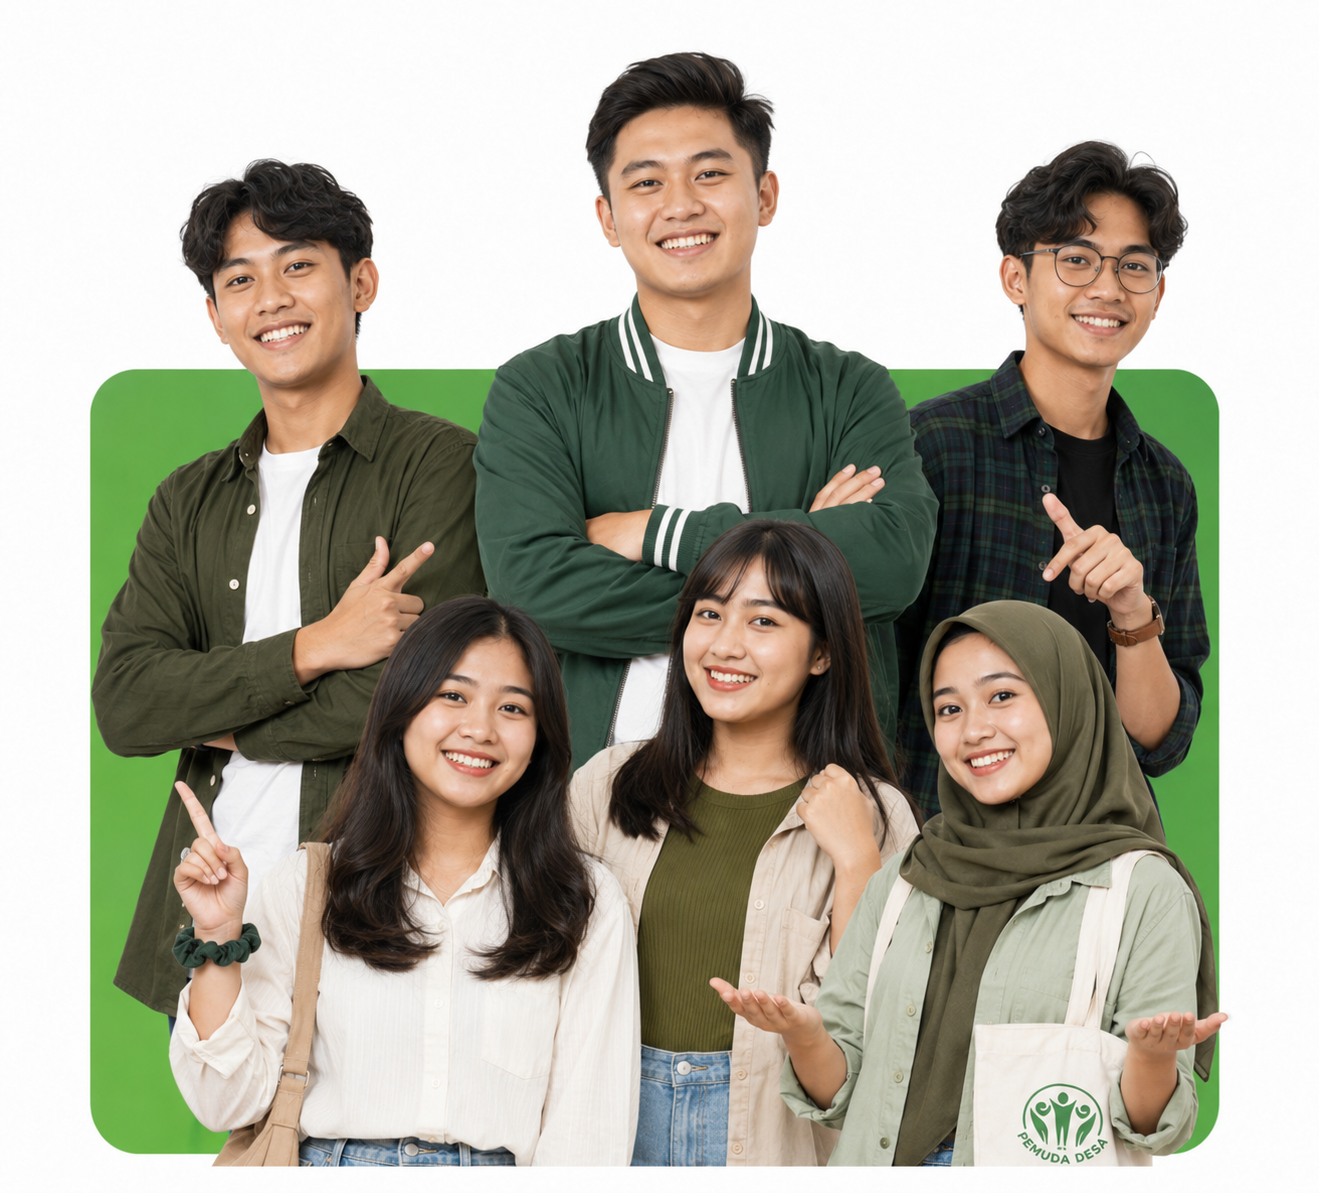
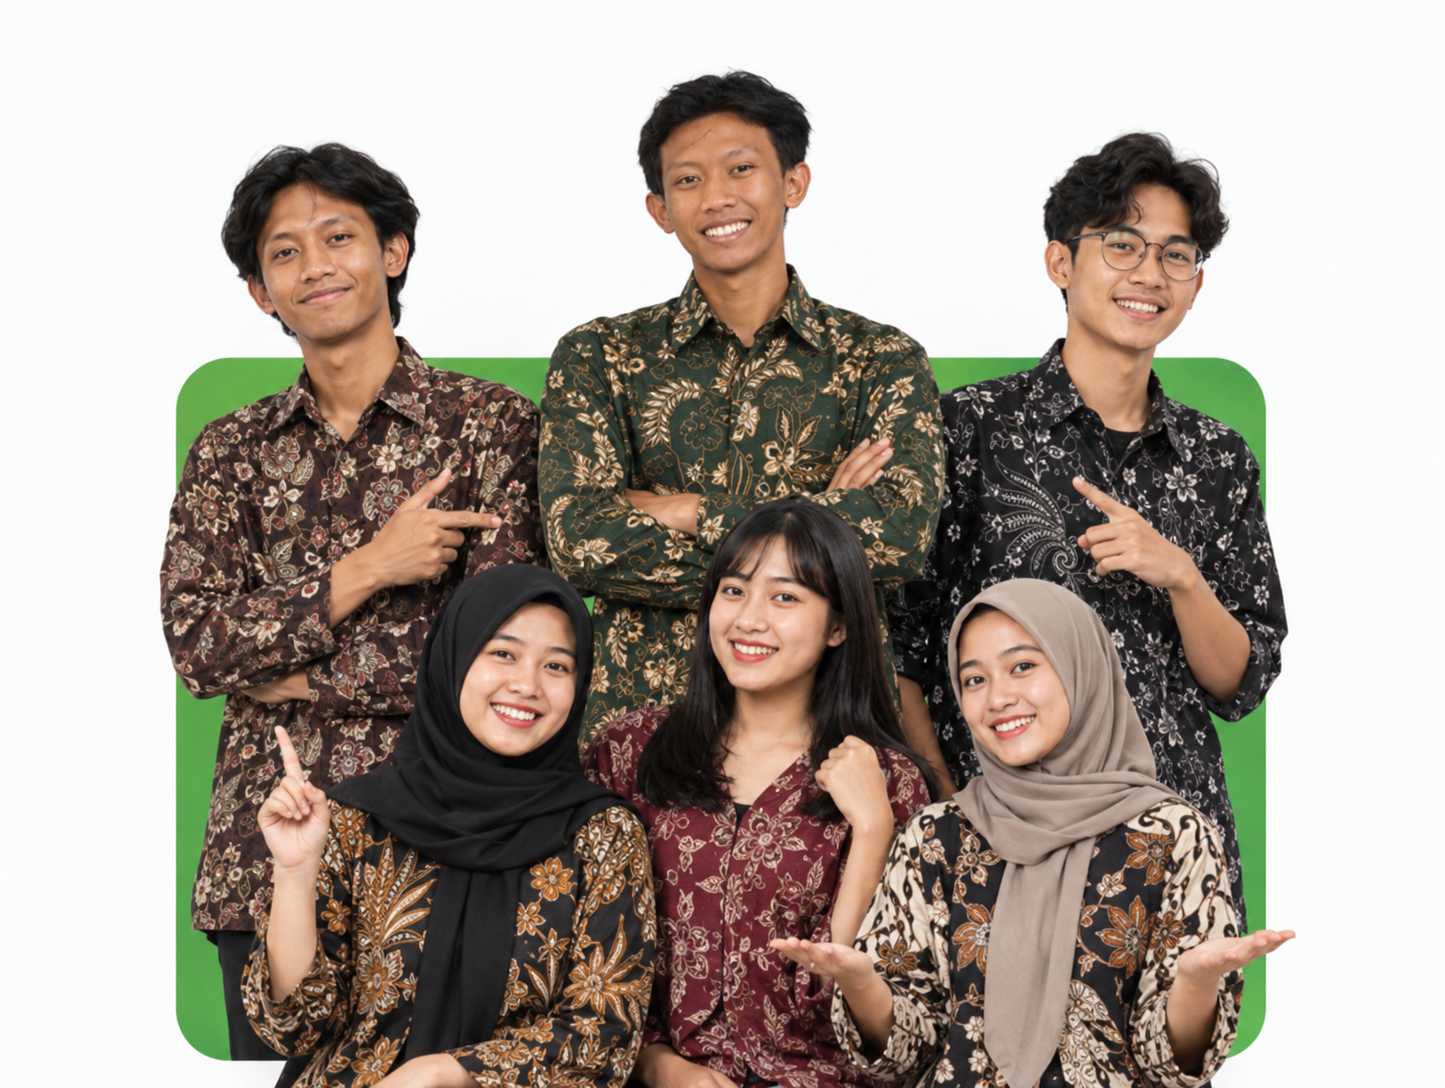
add admin padukuhan

diff --git a/frontend/src/shared/utils/compressImage.ts b/frontend/src/shared/utils/compressImage.ts
@@ -22,6 +22,17 @@ export const compressImage = (
       return;
     }
 
+    // PERBAIKAN PENTING: PNG sering dipakai JUSTRU karena
+    // transparansinya (foto tanpa background, logo, dll). JPEG SAMA
+    // SEKALI TIDAK MENDUKUNG TRANSPARANSI -- area transparan otomatis
+    // "dipadatkan" jadi HITAM PEKAT saat kanvas diekspor ke JPEG. Itu
+    // penyebab foto tanpa-background berubah jadi background hitam.
+    // Solusinya: PNG tetap diekspor sbg PNG (transparansi terjaga,
+    // lossless), HANYA file selain PNG yang dikompres ke JPEG.
+    const isPng = file.type === 'image/png';
+    const outputType = isPng ? 'image/png' : 'image/jpeg';
+    const outputExt = isPng ? '.png' : '.jpg';
+
     const reader = new FileReader();
     reader.onload = (event) => {
       const img = new Image();
@@ -50,18 +61,17 @@ export const compressImage = (
               resolve(file);
               return;
             }
-            // Nama file dipertahankan, ekstensi diseragamkan ke .jpg
-            // krn hasil toBlob JPEG (kompres lebih efektif dari PNG
-            // utk foto biasa).
-            const newName = file.name.replace(/\.[^.]+$/, '') + '.jpg';
+            const newName = file.name.replace(/\.[^.]+$/, '') + outputExt;
             const compressedFile = new File([blob], newName, {
-              type: 'image/jpeg',
+              type: outputType,
               lastModified: Date.now(),
             });
             resolve(compressedFile);
           },
-          'image/jpeg',
-          quality,
+          outputType,
+          // quality diabaikan browser utk PNG (PNG selalu lossless) --
+          // aman dikirim apa adanya, cuma efektif dipakai kalau JPEG.
+          isPng ? undefined : quality,
         );
       };
       img.onerror = () => reject(new Error('Gagal memuat gambar untuk dikompres.'));
